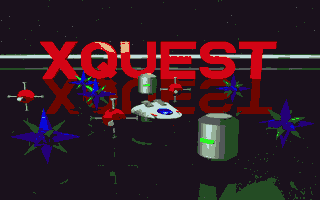
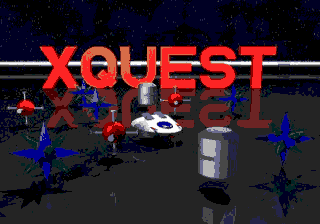
Update title screen
**`res/screens/title_screen.png`** --- replaced with the new image quantized to exactly 16 Genesis-legal colors (multiples of `0x24`). The palette was selected using weighted k-means in Genesis color space to minimize total quantization error.

**`res/resources.res`** --- added `PALETTE pal_title "screens/title_screen.png"` alongside the existing `IMAGE` declaration. rescomp extracts the PNG's palette into a `Palette` resource automatically.

**`res/resources.h`** --- added `extern const Palette pal_title;`.

**`src/game.c` --- `title_show()`:**

-   Calls `SPR_reset()` first to hide all game sprites
-   Loads `pal_title` into `PAL_BG` (PAL0) before drawing the image, so it renders with its own colors
-   Removes the old text overlays (XQUEST 2, credits) that would now clash with the image; keeps just `PRESS START` at the bottom
-   **Restores all four game palettes** (`pal_bg`, `pal_active`, `pal_collect`, `pal_enemy`) before returning, so gameplay starts with the correct colors

diff --git a/src/game.c b/src/game.c
@@ -1051,19 +1051,19 @@ void hud_update_score(u32 score)
 void title_show(void)
 {
     /* Clear display */
+    SPR_reset();
     VDP_clearPlane(BG_A, TRUE);
     VDP_clearPlane(BG_B, TRUE);
 
-    /* Load title image to plane B */
-    /* Genesis display is 320x224; title is 320x240 - crop 8px top/bottom */
+    /* Load the title screen's own 16-color palette into PAL0 */
+    PAL_setPalette(PAL_BG, pal_title.data, CPU);
+
+    /* Draw title image to plane B */
     VDP_drawImageEx(BG_B, &img_title, TILE_ATTR_FULL(PAL_BG, FALSE, FALSE, FALSE, TILE_USERINDEX),
                     0, 0, FALSE, CPU);
 
-    /* Draw title text */
-    VDP_drawText("XQUEST  2", 11, 12);
-    VDP_drawText("PRESS START", 10, 22);
-    VDP_drawText("by Mark Mackey", 9, 24);
-    VDP_drawText("SEGA GENESIS PORT", 7, 26);
+    /* Overlay text */
+    VDP_drawText("PRESS START", 10, 26);
 
     /* Wait for START */
     while (TRUE)
@@ -1072,6 +1072,12 @@ void title_show(void)
         u16 joy = JOY_readJoypad(JOY_1);
         if (joy & BUTTON_START) break;
     }
+
+    /* Restore game palettes */
+    PAL_setPalette(PAL_BG,      pal_bg.data,      CPU);
+    PAL_setPalette(PAL_ACTIVE,  pal_active.data,  CPU);
+    PAL_setPalette(PAL_COLLECT, pal_collect.data, CPU);
+    PAL_setPalette(PAL_ENEMY,   pal_enemy.data,   CPU);
 
     VDP_clearPlane(BG_B, TRUE);
     VDP_clearPlane(BG_A, TRUE);

diff --git a/res/resources.h b/res/resources.h
@@ -10,6 +10,7 @@ extern const u8 sfx_5[36352];
 extern const u8 sfx_6[7424];
 extern const u8 sfx_7[512];
 extern const u8 sfx_8[16896];
+extern const Palette pal_title;
 extern const Palette pal_bg;
 extern const Palette pal_active;
 extern const Palette pal_collect;
